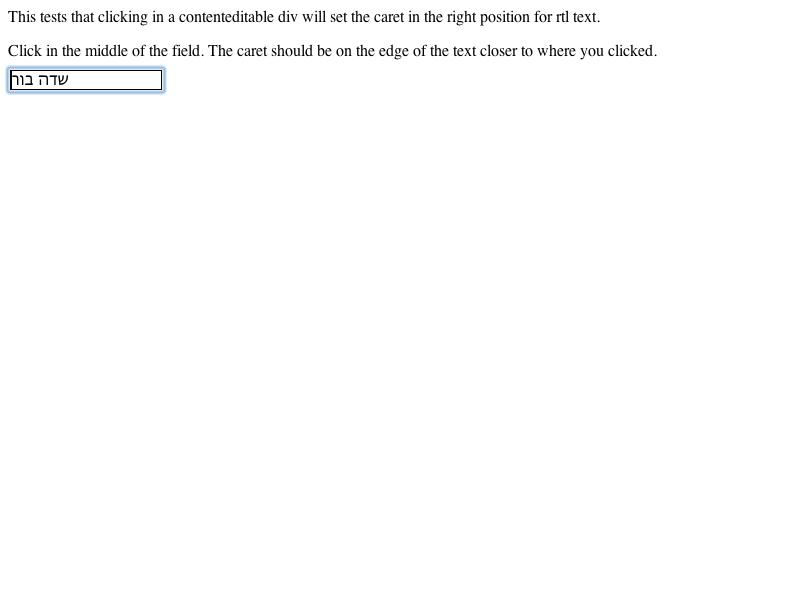
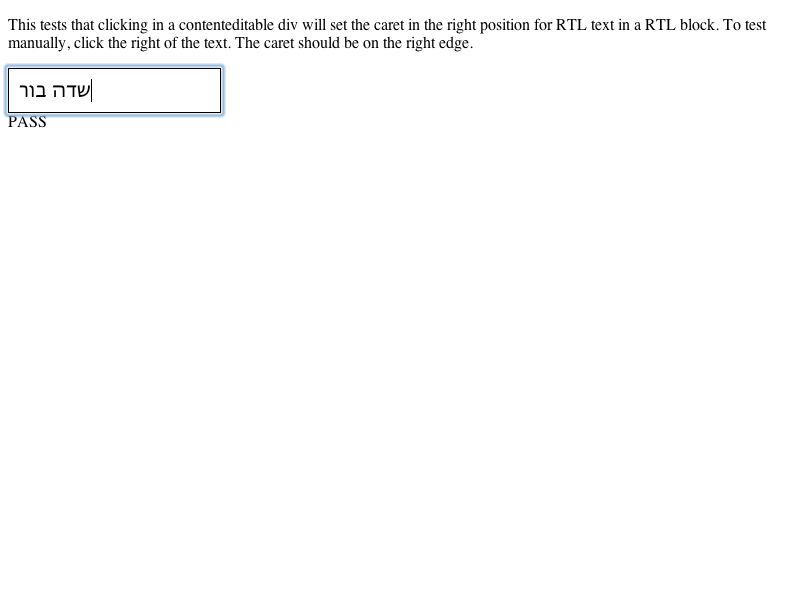
2010-12-08  Ryosuke Niwa  <rniwa@webkit.org>
Reviewed by Dan Bernstein.

        REGRESSION: LayoutTests/editing/selection/caret-rtl-2.html fails
        https://bugs.webkit.org/show_bug.cgi?id=33503

        The bug was caused by Font::offsetForPosition's not taking into account the containing block's text direction.
        When RTL text appears in a LTR block, the offset at the beginning of RTL text is on the left of RTL text,
        adn the offset at the end of RTL text is on the right of RTL text. For example, if we had RTL text CBA,
        then the correspondance between letters and offsets in logical order are: A -> 0, B -> 1, and C -> 2.

        Case 1. CBA appears in a RTL block:
          In this case, clicking on the visual left of CBA puts the caret naturally at Position("CBA", 2).
          Clicking on the visual right of CBA puts the caret at Position("CBA", 0) as expected.
        Case 2. CBA appears in a LTR block:
          Because the containing block flows from left to right, by covention, Position("CBA", 2") coresponds
          to the visual right of CBA, and Position("CBA", 0) corresponds to the visual left of CBA.
          Therefore, clicking on the visual left of CBA should put the caret at Positoin("CBA", 0),
          and clicking on the visual right should put it at Position("CBA", 2).

        The bug was caused by WebKit's not considering case 2. The same bug also existe for LTR text in a RTL block.
[…]

Changed region(s): [[0.0, 0.0, 0.9688, 0.21]]

diff --git a/LayoutTests/editing/selection/resources/caret-edge-shared.js b/LayoutTests/editing/selection/resources/caret-edge-shared.js
@@ -1,0 +1,41 @@
+
+function runTest() {
+    var div = document.getElementsByTagName('div')[0];
+
+    if (!window.layoutTestController) {
+        div.addEventListener('mouseup', verify);
+        return;
+    }
+
+    if (clickOn == 'left')
+        x = 5;
+    else
+        x = div.offsetWidth - 5;
+
+    eventSender.mouseMoveTo(div.offsetLeft + x, div.offsetTop + div.offsetHeight / 2);
+    eventSender.leapForward(200);
+    eventSender.mouseDown();
+    eventSender.leapForward(200);
+    eventSender.mouseUp();
+    verify();
+}
+
+function verify() {
+    var div = document.getElementsByTagName('div')[0];
+
+    if (!window.getSelection().isCollapsed)
+        return log('FAIL: selection not collapsed');
+
+    var range = window.getSelection().getRangeAt(0);
+    if (range.startContainer != div.firstChild)
+        return log('FAIL: wrong container');
+    if (range.startOffset != expectedOffset)
+        return log('FAIL: wrong offset ' + range.startOffset + ', expected ' + expectedOffset);
+
+    return log('PASS');
+}
+
+function log(message) {
+    document.body.appendChild(document.createTextNode(message));
+    document.body.appendChild(document.createElement('br'));
+}

diff --git a/LayoutTests/editing/selection/caret-rtl-2-left.html b/LayoutTests/editing/selection/caret-rtl-2-left.html
@@ -2,15 +2,15 @@
 <html>
 <body>
 <p>
-This tests that clicking in a contenteditable div will set the caret in the right position for RTL text in a RTL block.
-To test manually, click the right of the text. The caret should be on the right edge.
+This tests that clicking in a contenteditable div will set the caret in the right position for RTL text in a LTR block.
+To test manually, click the left of the text. The caret should be on the left edge.
 </p>
 <div style="font-size: 20px; width: 20ex; border: solid thin black; padding: 10px;" contenteditable>&#x05e9;&#x05d3;&#x05d4; &#x05d1;&#x05d5;&#x05e8;</div>
 <script src="resources/caret-edge-shared.js"></script>
 <script>
 
-var clickOn = 'right';
-var expectedOffset = 7;
+var clickOn = 'left';
+var expectedOffset = 0;
 
 runTest();
 

diff --git a/LayoutTests/editing/selection/caret-ltr-right.html b/LayoutTests/editing/selection/caret-ltr-right.html
@@ -2,10 +2,10 @@
 <html>
 <body>
 <p>
-This tests that clicking in a contenteditable div will set the caret in the right position for RTL text in a RTL block.
+This tests that clicking in a contenteditable div will set the caret in the right position for LTR text in a LTR block.
 To test manually, click the right of the text. The caret should be on the right edge.
 </p>
-<div style="font-size: 20px; width: 20ex; border: solid thin black; padding: 10px;" contenteditable>&#x05e9;&#x05d3;&#x05d4; &#x05d1;&#x05d5;&#x05e8;</div>
+<div style="font-size: 20px; width: 20ex; border: solid thin black; padding: 10px;" contenteditable>WebKit2</div>
 <script src="resources/caret-edge-shared.js"></script>
 <script>
 

diff --git a/LayoutTests/editing/selection/caret-rtl-right.html b/LayoutTests/editing/selection/caret-rtl-right.html
@@ -3,14 +3,14 @@
 <body>
 <p>
 This tests that clicking in a contenteditable div will set the caret in the right position for RTL text in a RTL block.
-To test manually, click the left of the text. The caret should be on the left edge.
+To test manually, click the right of the text. The caret should be on the right edge.
 </p>
 <div style="direction: rtl; font-size: 20px; width: 20ex; border: solid thin black; padding: 10px;" contenteditable>&#x05e9;&#x05d3;&#x05d4; &#x05d1;&#x05d5;&#x05e8;</div>
 <script src="resources/caret-edge-shared.js"></script>
 <script>
 
-var clickOn = 'left';
-var expectedOffset = 7;
+var clickOn = 'right';
+var expectedOffset = 0;
 
 runTest();
 

diff --git a/LayoutTests/editing/selection/caret-ltr-2.html b/LayoutTests/editing/selection/caret-ltr-2.html
@@ -1,0 +1,19 @@
+<!DOCTYPE html>
+<html>
+<body>
+<p>
+This tests that clicking in a contenteditable div will set the caret in the right position for LTR text in a RTL block.
+To test manually, click the right of the text. The caret should be on the right edge.
+</p>
+<div style="direction: rtl; font-size: 20px; width: 20ex; border: solid thin black; padding: 10px;" contenteditable>WebKit2</div>
+<script src="resources/caret-edge-shared.js"></script>
+<script>
+
+var clickOn = 'right';
+var expectedOffset = 0;
+
+runTest();
+
+</script>
+</body>
+</html>

diff --git a/LayoutTests/editing/selection/caret-ltr-2-left.html b/LayoutTests/editing/selection/caret-ltr-2-left.html
@@ -1,0 +1,19 @@
+<!DOCTYPE html>
+<html>
+<body>
+<p>
+This tests that clicking in a contenteditable div will set the caret in the right position for LTR text in a RTL block.
+To test manually, click the left of the text. The caret should be on the left edge.
+</p>
+<div style="direction: rtl; font-size: 20px; width: 20ex; border: solid thin black; padding: 10px;" contenteditable>WebKit2</div>
+<script src="resources/caret-edge-shared.js"></script>
+<script>
+
+var clickOn = 'left';
+var expectedOffset = 7;
+
+runTest();
+
+</script>
+</body>
+</html>

diff --git a/LayoutTests/editing/selection/caret-ltr.html b/LayoutTests/editing/selection/caret-ltr.html
@@ -1,0 +1,19 @@
+<!DOCTYPE html>
+<html>
+<body>
+<p>
+This tests that clicking in a contenteditable div will set the caret in the right position for LTR text in a LTR block.
+To test manually, click the left of the text. The caret should be on the left edge.
+</p>
+<div style="font-size: 20px; width: 20ex; border: solid thin black; padding: 10px;" contenteditable>WebKit2</div>
+<script src="resources/caret-edge-shared.js"></script>
+<script>
+
+var clickOn = 'left';
+var expectedOffset = 0;
+
+runTest();
+
+</script>
+</body>
+</html>

diff --git a/WebCore/rendering/InlineTextBox.cpp b/WebCore/rendering/InlineTextBox.cpp
@@ -1097,11 +1097,21 @@ int InlineTextBox::offsetForPosition(int lineOffset, bool includePartialGlyphs) 
     if (isLineBreak())
         return 0;
 
+    int leftOffset = isLeftToRightDirection() ? 0 : m_len;
+    int rightOffset = isLeftToRightDirection() ? m_len : 0;
+    if (renderer()->containingBlock()->style()->isLeftToRightDirection() != isLeftToRightDirection())
+        swap(leftOffset, rightOffset);
+
+    if (lineOffset - logicalLeft() > logicalWidth())
+        return rightOffset;
+    if (lineOffset - logicalLeft() < 0)
+        return leftOffset;
+
     RenderText* text = toRenderText(renderer());
     RenderStyle* style = text->style(m_firstLine);
     const Font* f = &style->font();
     return f->offsetForPosition(TextRun(textRenderer()->text()->characters() + m_start, m_len, textRenderer()->allowTabs(), textPos(), m_toAdd, !isLeftToRightDirection(), m_dirOverride || style->visuallyOrdered()),
-                                lineOffset - logicalLeft(), includePartialGlyphs);
+        lineOffset - logicalLeft(), includePartialGlyphs);
 }
 
 int InlineTextBox::positionForOffset(int offset) const
